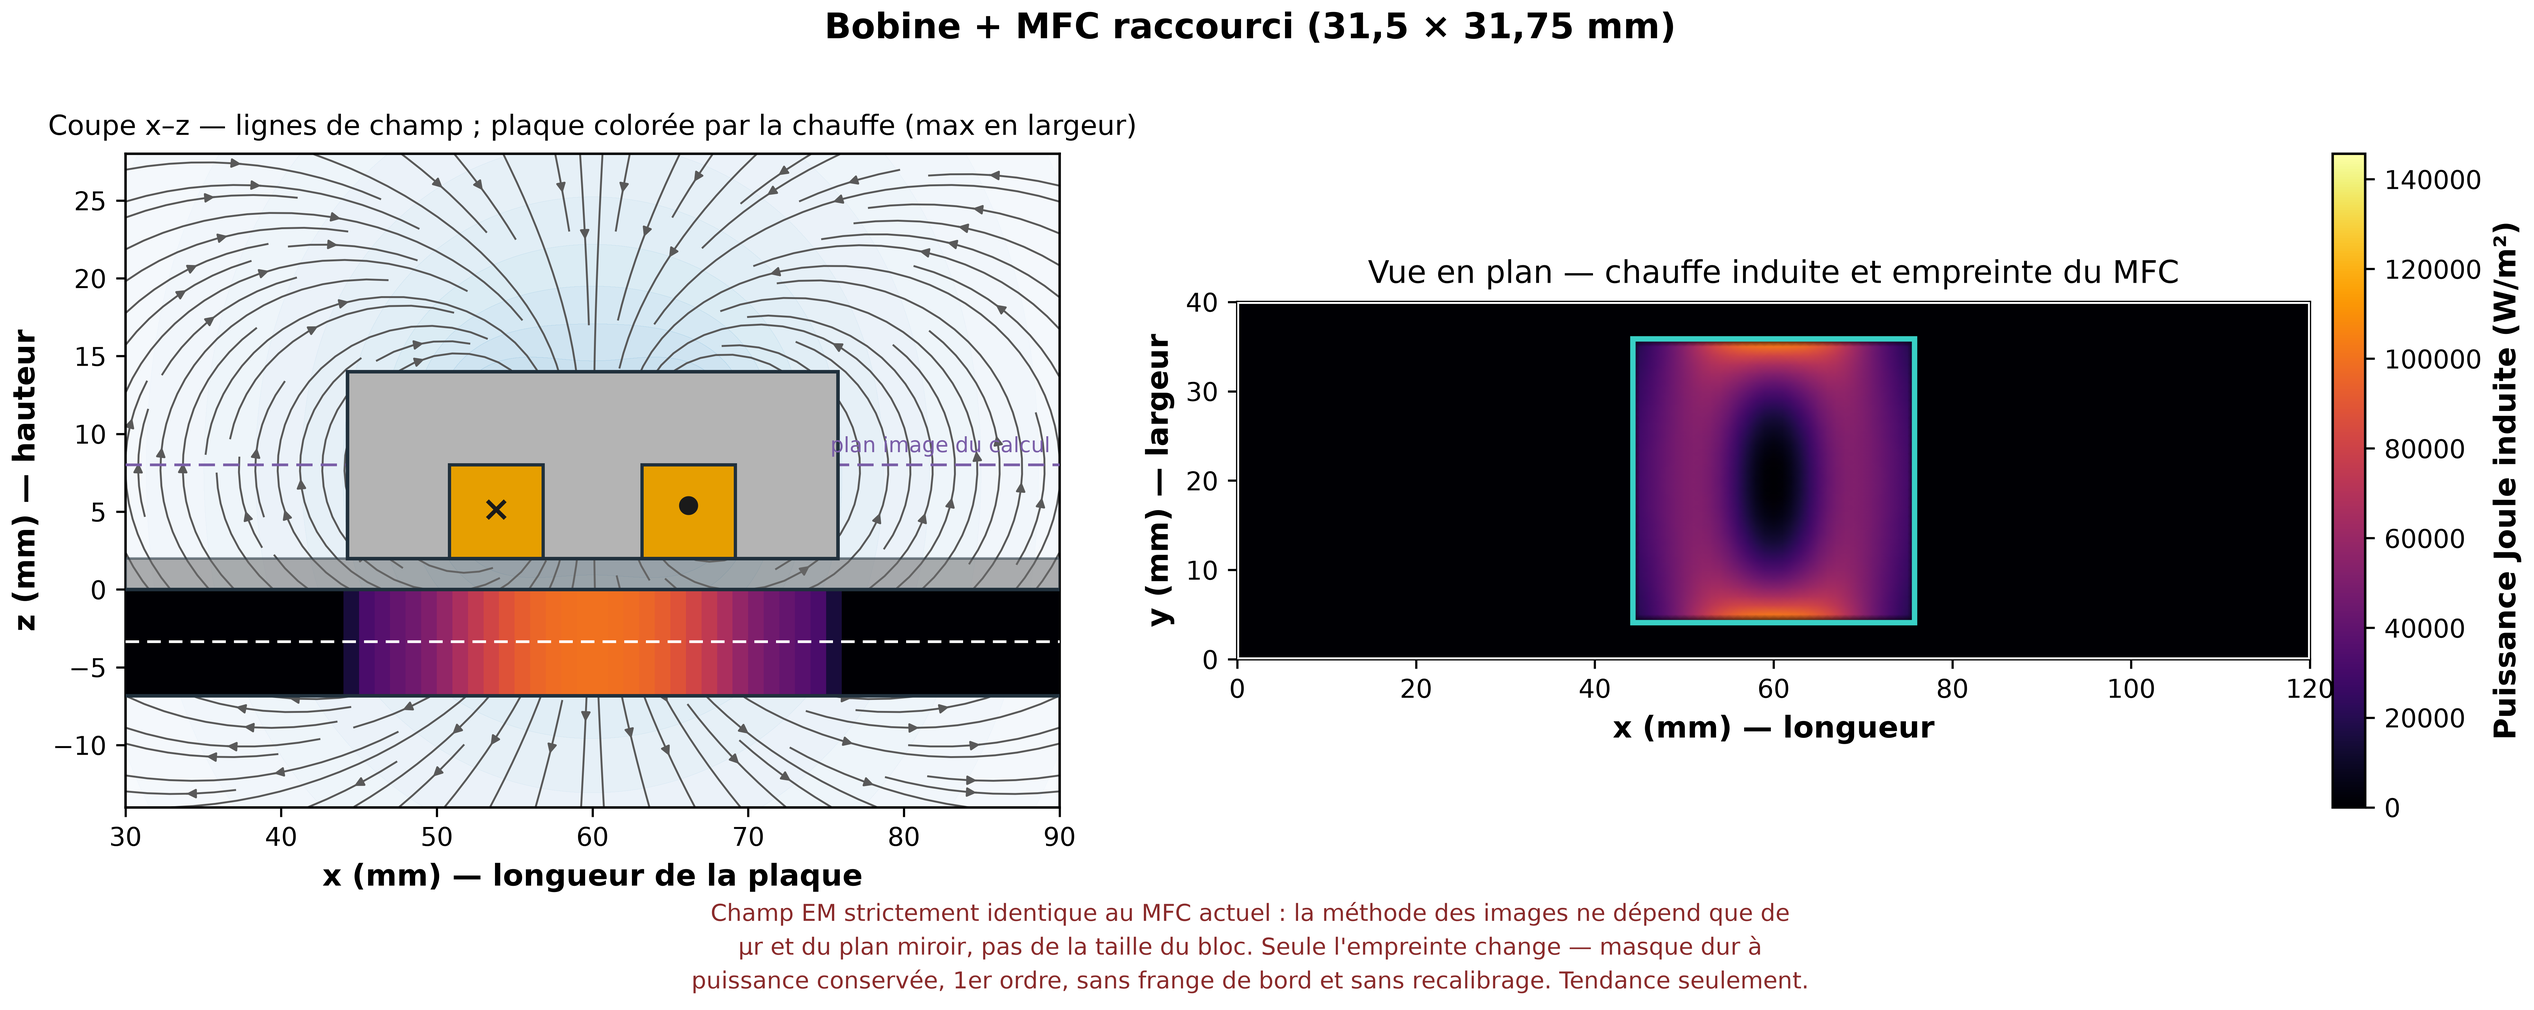
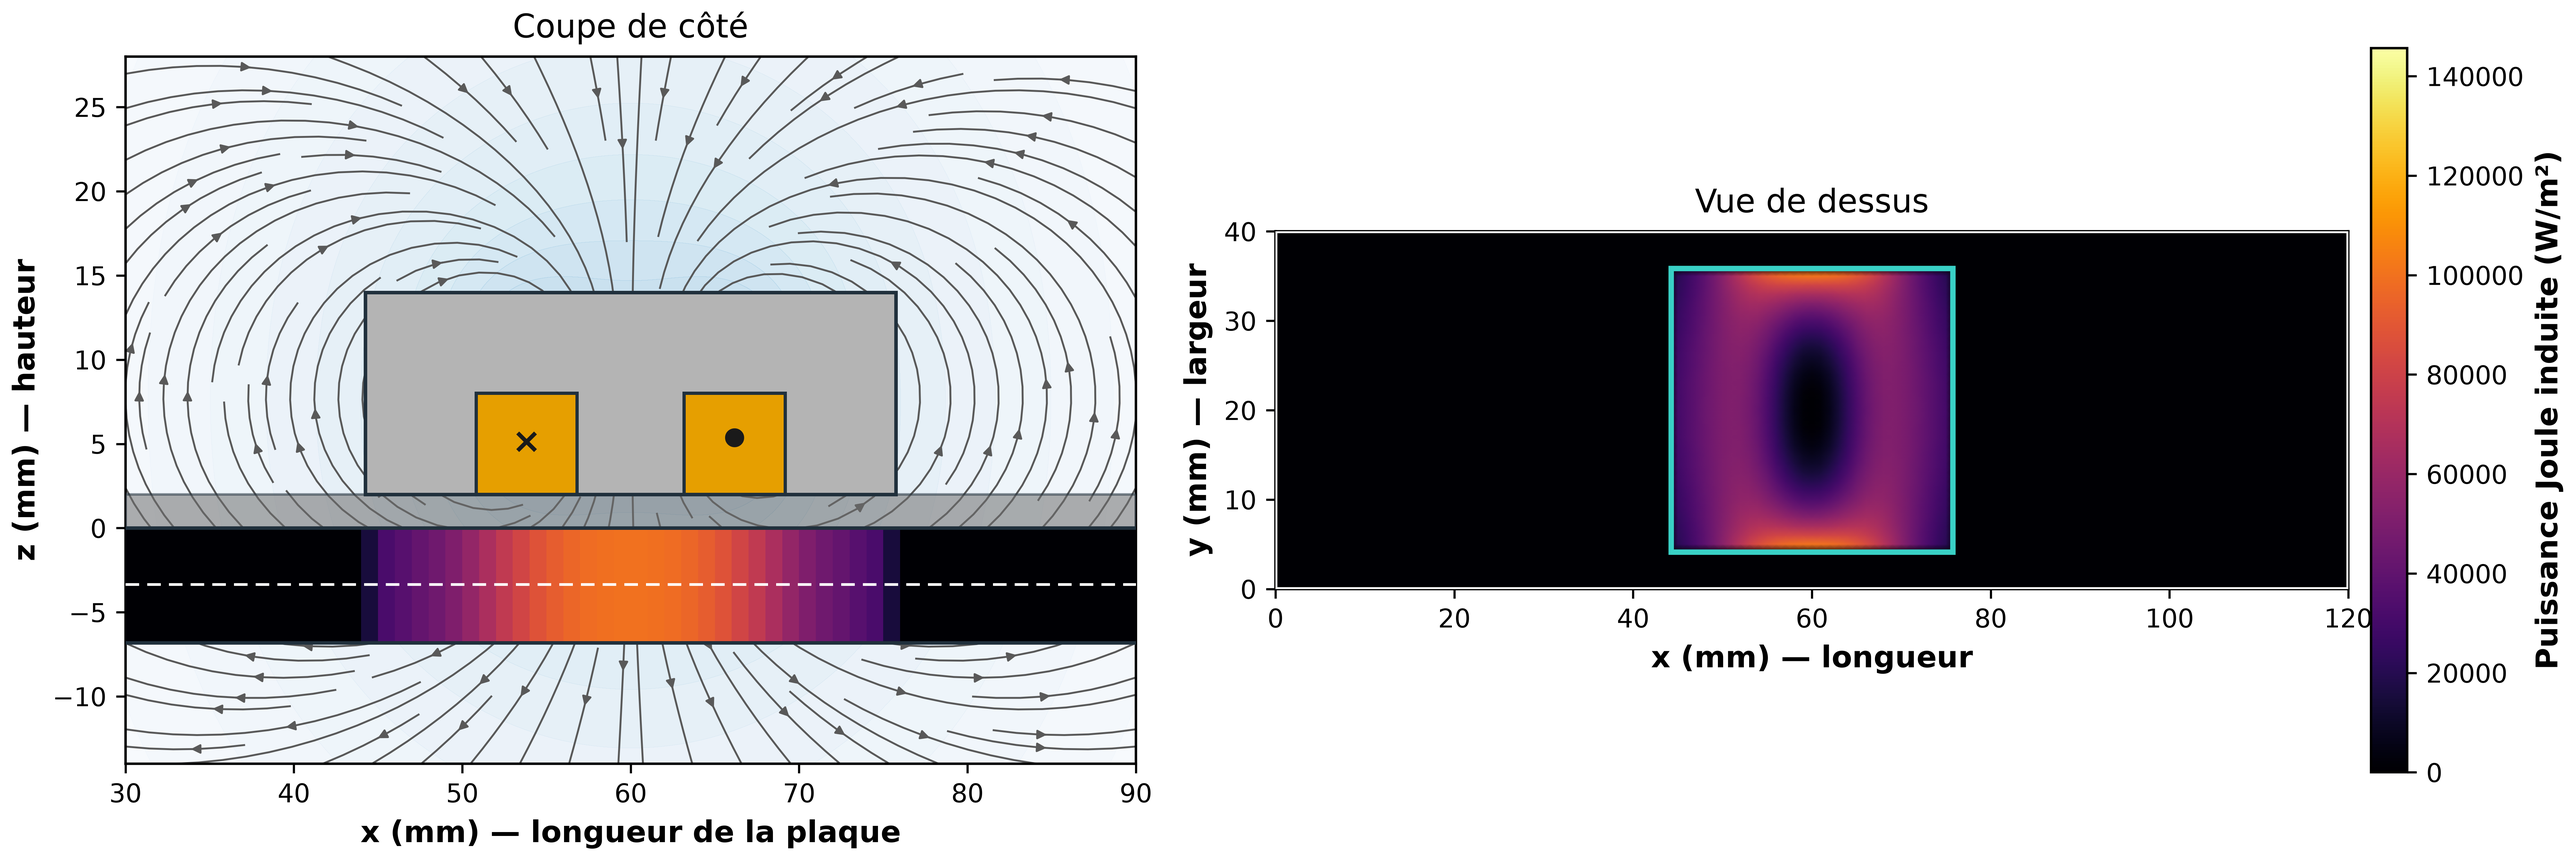
slide(deck): champ EM et argument du MFC raccourci ; figures allegees
Deck hebdo : nouvelle slide "MODELISATION SUR PYTHON — CHAMP EM", inseree
JUSTE AVANT la slide fiber flow dont elle porte l'argument. Deux rangees :
en haut les deux coupes de cote (bobine seule / + MFC) -> le concentrateur
double la chauffe ; en bas les deux vues de dessus (MFC actuel / raccourci) ->
la chauffe se recentre, ce que la coupe ne peut PAS montrer.

Le message demande par l'utilisateur y est ecrit : raccourcir le MFC ne change
RIEN au champ dans le plan (x, z) -- la methode des images ne depend que de mu_r
et du plan miroir -- mais rend la chauffe plus uniforme dans le plan (x, y), et
c'est sur cette uniformite qu'on compte pour reduire le fiber flow observe a
chaque soudage avec le MFC actuellement monte sur la station. La reserve
(masque d'empreinte, 1er ordre, non recalibre, a confirmer au banc) est
conservee dans le texte de la slide, puisqu'elle a ete retiree des images.

Figures allegees a la demande : plus de titre general, plus de pave de texte
sous la figure, sous-titres reduits a "Coupe de cote" / "Vue de dessus", et
retrait du repere de plan image et du rapport de pic (repris dans la slide).

Le generateur de slide `gen_slide_champ_em.py` est versionne mais N'EST PAS
IDEMPOTENT (il insere une slide a chaque execution) -- c'est dit dans sa
docstring. Il place les recadrages par la HAUTEUR et non la largeur : figer une
largeur faisait deborder les rangees des que le recadrage changeait de
proportions.
[…]

Changed region(s): [[0.0, 0.0, 0.9981, 0.9913]]

diff --git a/code/scripts/gen/gen_slide_champ_em.py b/code/scripts/gen/gen_slide_champ_em.py
@@ -1,0 +1,160 @@
+"""Ajoute au deck hebdo une slide "champ electromagnetique" (issue #59 / MFC reduit).
+
+ATTENTION : ce script N'EST PAS IDEMPOTENT -- il INSERE une slide a chaque
+execution. Le deck live est la source de verite ; faire une sauvegarde datee
+avant de le lancer, et ne le relancer qu'apres avoir retire la slide precedente.
+
+La slide reprend les trois cartes produites par `gen_carte_champ_em.py` en n'en
+gardant que les panneaux utiles (recadrage a la volee, images embarquees dans le
+pptx : aucun fichier temporaire ne subsiste) :
+  - haut  : les deux coupes x-z (bobine seule / + MFC) -> le MFC concentre
+  - bas   : les deux vues en plan (MFC actuel / raccourci) -> la chauffe se
+            recentre, ce que la coupe x-z ne peut PAS montrer
+Elle est inseree juste avant la slide "fiber flow", dont elle porte l'argument.
+"""
+import copy
+from pathlib import Path
+
+from PIL import Image
+from pptx import Presentation
+from pptx.util import Inches, Pt
+from pptx.dml.color import RGBColor
+from pptx.enum.text import PP_ALIGN
+
+R = next(p for p in Path(__file__).resolve().parents if (p / ".git").exists())
+DECK = R / "biblio/presentations/Point d'avancement hebdomadaire — LIPeC  ÉTS.pptx"
+FIGS = R / "biblio/modele/figures"
+TMP = Path("/private/tmp/claude-501/-Users-maxencedubois-PycharmProjects-Jumeau-Soudage-Induction/"
+           "9b941a73-d97f-43ca-85b2-1f6fbe331e44/scratchpad")
+
+ROUGE, GRIS = RGBColor(0xC1, 0x27, 0x2D), RGBColor(0x3A, 0x3A, 0x3A)
+NS_R = "{http://schemas.openxmlformats.org/officeDocument/2006/relationships}"
+GABARIT = 15                                  # slide clonee pour le chrome
+
+prs = Presentation(str(DECK))
+
+
+def sid(sl, i):
+    return next(x for x in sl.shapes if x.shape_id == i)
+
+
+def dupliquer(idx):
+    src = prs.slides[idx]
+    dst = prs.slides.add_slide(src.slide_layout)
+    for shp in list(dst.shapes):
+        shp._element.getparent().remove(shp._element)
+    corr = {}
+    for rId, rel in src.part.rels.items():
+        if "slideLayout" in rel.reltype:
+            continue
+        cible = rel._target if not rel.is_external else rel.target_ref
+        corr[rId] = dst.part.rels._add_relationship(rel.reltype, cible, rel.is_external)
+    for shp in src.shapes:
+        el = copy.deepcopy(shp._element)
+        for n in el.iter():
+            for a in list(n.attrib):
+                if a.startswith(NS_R) and n.attrib[a] in corr:
+                    n.attrib[a] = corr[n.attrib[a]]
+        dst.shapes._spTree.append(el)
+    return dst
+
+
+def recadrer(nom, x0, x1, y0, y1):
+    """Recadre une figure en fractions de sa taille -> fichier temporaire."""
+    im = Image.open(FIGS / nom)
+    w, h = im.size
+    out = TMP / f"crop_{x0:.2f}_{nom}"
+    im.crop((int(x0 * w), int(y0 * h), int(x1 * w), int(y1 * h))).save(out)
+    return out
+
+
+def legende(sl, x, y, w, txt, taille=11):
+    tb = sl.shapes.add_textbox(Inches(x), Inches(y), Inches(w), Inches(0.30))
+    p = tb.text_frame.paragraphs[0]; p.alignment = PP_ALIGN.CENTER
+    r = p.add_run(); r.text = txt
+    r.font.size, r.font.bold, r.font.color.rgb = Pt(taille), True, GRIS
+
+
+def bloc(sl, x, y, w, h, contenu):
+    tb = sl.shapes.add_textbox(Inches(x), Inches(y), Inches(w), Inches(h))
+    tf = tb.text_frame; tf.word_wrap = True
+    for i, (st, txt) in enumerate(contenu):
+        p = tf.paragraphs[0] if i == 0 else tf.add_paragraph()
+        r = p.add_run(); r.text = txt
+        if st == "t":
+            r.font.size, r.font.bold, r.font.color.rgb = Pt(15), True, ROUGE
+            p.space_after = Pt(4)
+        else:
+            r.font.size, r.font.bold, r.font.color.rgb = Pt(13.5), False, GRIS
+            p.space_after = Pt(10)
+    return tb
+
+
+sl = dupliquer(GABARIT)
+for i in (17, 18):                            # figure + texte herites du gabarit
+    e = sid(sl, i)._element; e.getparent().remove(e)
+sid(sl, 12).text_frame.paragraphs[0].runs[0].text = "MODÉLISATION SUR PYTHON — CHAMP EM"
+sid(sl, 14).text_frame.paragraphs[0].runs[0].text = (
+    "Ce que le concentrateur change — et ce qu'il ne change pas")
+
+COUPE = (0.010, 0.452, 0.0, 1.0)              # panneau gauche (coupe de côté)
+PLAN = (0.452, 1.0, 0.0, 1.0)                 # panneau droit + barre de couleur
+
+def poser(nom, boite, x, y, hauteur, lg, taille=10.5):
+    """Place un recadrage a HAUTEUR imposee ; renvoie sa largeur reelle.
+
+    On impose la hauteur (et non la largeur) parce que le recadrage change de
+    proportions des qu'on retouche la figure source : figer une largeur faisait
+    deborder les rangees l'une sur l'autre.
+    """
+    chemin = recadrer(nom, *boite)
+    iw, ih = Image.open(chemin).size
+    largeur = hauteur * iw / ih
+    sl.shapes.add_picture(str(chemin), Inches(x), Inches(y), height=Inches(hauteur))
+    legende(sl, x, y + hauteur + 0.04, largeur, lg, taille)
+    return largeur
+
+
+H_RANGEE = 3.02
+# --- haut : le MFC concentre (coupes de cote) ------------------------------ #
+x = 0.70
+for nom, lg in [("fig_champ_em_1_bobine_seule.png", "Bobine seule"),
+                ("fig_champ_em_2_mfc_actuel.png", "Bobine + MFC — pic ×2,5")]:
+    x += poser(nom, COUPE, x, 3.15, H_RANGEE, lg) + 0.55
+
+# --- bas : la chauffe se recentre (vues de dessus) ------------------------- #
+x = 0.70
+for nom, lg in [("fig_champ_em_2_mfc_actuel.png", "MFC actuel (55 mm) — lobes chauds au bord"),
+                ("fig_champ_em_3_mfc_reduit.png", "MFC raccourci (31,75 mm) — chauffe recentrée")]:
+    x += poser(nom, PLAN, x, 6.72, H_RANGEE, lg, taille=10) + 0.45
+
+bloc(sl, 13.05, 3.10, 6.35, 7.0, [
+    ("t", "Le concentrateur double la chauffe"),
+    ("c", "Le modèle calcule le champ de la bobine et son image dans le MFC. Le pic de chauffe "
+          "induite passe ×2,5 par rapport à la bobine seule."),
+    ("t", "Le raccourcir ne change RIEN au champ (x, z)"),
+    ("c", "La méthode des images ne dépend que de la perméabilité et du plan miroir, pas de la "
+          "taille du bloc : à bobine identique, la coupe x–z est strictement la même. Ce n'est "
+          "donc pas là qu'il faut regarder."),
+    ("t", "Mais la chauffe devient plus uniforme en (x, y)"),
+    ("c", "L'empreinte plus courte recentre la puissance : les lobes chauds de bord s'effacent et "
+          "le profil s'aplatit — contraste bord/centre 4,1 → 1,7 selon le modèle."),
+    ("t", "Pourquoi ça compte : le fiber flow"),
+    ("c", "C'est sur cette uniformité qu'on compte pour réduire le fiber flow observé à CHAQUE "
+          "soudage avec le MFC actuellement monté sur la station (cf. slide suivante)."),
+    ("c", "Réserve : la réduction est représentée par un masque d'empreinte à puissance "
+          "conservée — approximation du 1er ordre, sans frange de bord et non recalibrée. "
+          "Tendance, pas niveau absolu. À confirmer au banc dès réception du bloc."),
+])
+
+# insertion juste AVANT la slide "fiber flow"
+lst = prs.slides._sldIdLst
+ids = list(lst)
+cible = next(i for i, s in enumerate(prs.slides)
+             if any(sh.has_text_frame and "Le problème" in sh.text_frame.text
+                    for sh in s.shapes))
+lst.remove(ids[-1])
+lst.insert(cible, ids[-1])
+
+prs.save(str(DECK))
+print(f"slide insérée en position {cible + 1} ; deck à {len(prs.slides)} slides")

diff --git a/code/scripts/gen/gen_carte_champ_em.py b/code/scripts/gen/gen_carte_champ_em.py
@@ -179,7 +179,7 @@ vmax = max(c.max() for c in cartes)
 norme = Normalize(0.0, vmax)
 pic_seule = cartes[0].max()
 
-for (nom, titre, avec_mfc, _, longueur_mfc, avertissement), carte in zip(CAS, cartes):
+for (nom, _titre, avec_mfc, _, longueur_mfc, _avert), carte in zip(CAS, cartes):
     fig, (axg, axd) = plt.subplots(1, 2, figsize=(13.4, 5.2),
                                    gridspec_kw={"width_ratios": [1.0, 1.12]})
 
@@ -221,14 +221,8 @@ for (nom, titre, avec_mfc, _, longueur_mfc, avertissement), carte in zip(CAS, ca
         axg.text(xc, (Z_TUBE_BAS + Z_TUBE_HAUT) / 2, marque, ha="center",
                  va="center", fontsize=taille, fontweight="bold", color="0.1",
                  zorder=10)
-    if avec_mfc:
-        axg.plot([x0, x1], [z_miroir * 1e3] * 2, color="#7A5EA8", lw=1.0,
-                 ls=(0, (6, 3)), zorder=6)
-        axg.text(x1 - 0.6, z_miroir * 1e3 + 0.5, "plan image du calcul",
-                 fontsize=7.8, color="#7A5EA8", ha="right", va="bottom", zorder=12)
 
-    axg.set_title("Coupe x–z — lignes de champ ; plaque colorée par la "
-                  "chauffe (max en largeur)", pad=7, fontsize=10.2)
+    axg.set_title("Coupe de côté", pad=7, fontsize=12)
     axg.set_xlabel("x (mm) — longueur de la plaque")
     axg.set_ylabel("z (mm) — hauteur")
     axg.set_xlim(x0, x1); axg.set_ylim(zs[0] * 1e3, zs[-1] * 1e3)
@@ -245,30 +239,13 @@ for (nom, titre, avec_mfc, _, longueur_mfc, avertissement), carte in zip(CAS, ca
                                  (centre_y - longueur_mfc / 2) * 1e3),
                                 mfc_x * 1e3, longueur_mfc * 1e3, facecolor="none",
                                 edgecolor="#39D0C6", linewidth=2.0, zorder=4))
-    axd.set_title("Vue en plan — chauffe induite" +
-                  (" et empreinte du MFC" if avec_mfc else ""), pad=7)
+    axd.set_title("Vue de dessus", pad=7, fontsize=12)
     axd.set_xlabel("x (mm) — longueur"); axd.set_ylabel("y (mm) — largeur")
     axd.set_aspect("equal")
     cb = fig.colorbar(im, ax=axd, fraction=0.032, pad=0.02)
     cb.set_label("Puissance Joule induite (W/m²)")
 
-    # Rapport de pic affiche UNIQUEMENT pour le MFC actuel : c'est le seul cas
-    # ou il compare deux champs calcules de la meme facon. Pour le MFC
-    # raccourci, le pic est fixe par le masque dur (qui annule les lobes de
-    # bord) et non par la physique -- l'afficher laisserait croire a tort que
-    # le bloc raccourci "chauffe moins".
-    if nom.startswith("2"):
-        axg.text(0.985, 0.04, f"pic ×{carte.max() / pic_seule:.1f}".replace(".", ",")
-                 + " vs bobine seule", transform=axg.transAxes, ha="right",
-                 va="bottom", fontsize=10.5, fontweight="bold", color="0.12",
-                 zorder=14, bbox=dict(facecolor="white", alpha=0.9,
-                                      edgecolor="0.6", pad=3.0))
-    if avertissement:
-        fig.text(0.5, 0.012, avertissement, ha="center", va="bottom", fontsize=8.6,
-                 color="#8A2A2A", linespacing=1.45)
-
-    fig.suptitle(titre, fontsize=13, fontweight="bold", y=0.985)
-    fig.tight_layout(rect=(0, 0.17 if avertissement else 0.01, 1, 0.94))
+    fig.tight_layout()
     out = R / "biblio" / "modele" / "figures" / f"fig_champ_em_{nom}.png"
     fig.savefig(out); plt.close(fig)
     print(f"écrit : {out.name}   pic = {carte.max():.3e} W/m² "
